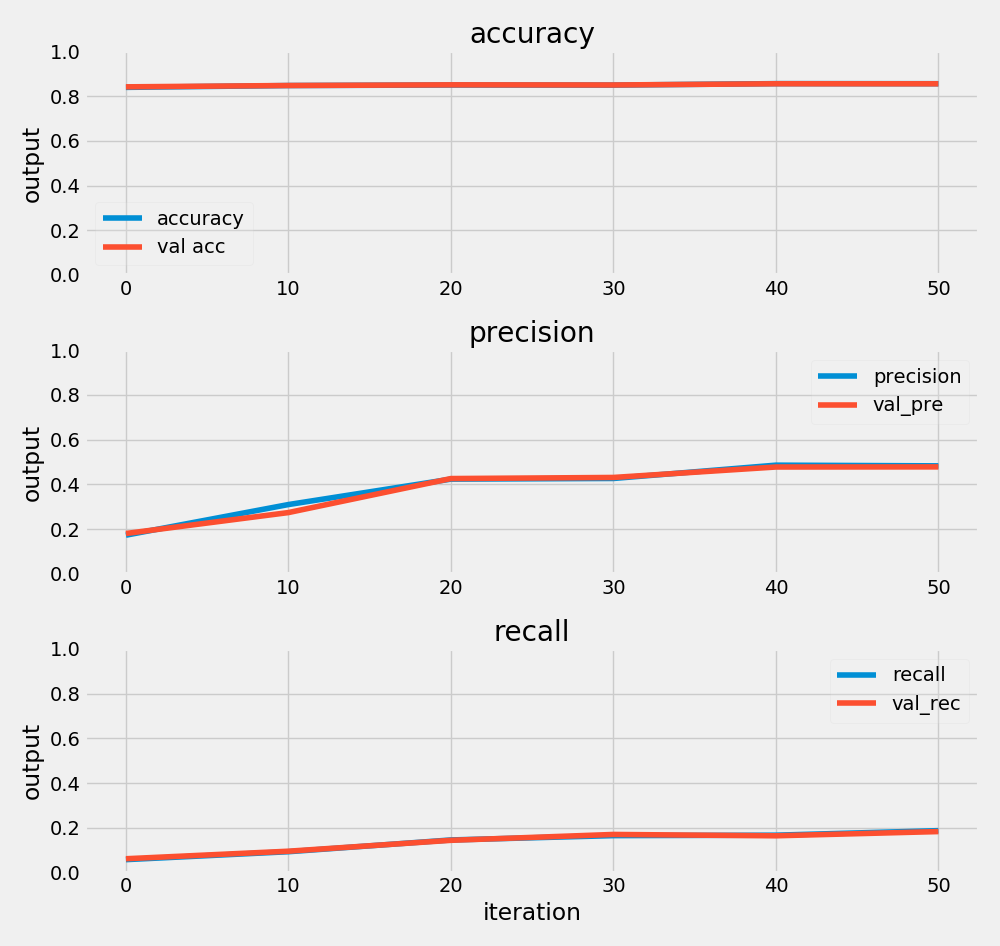
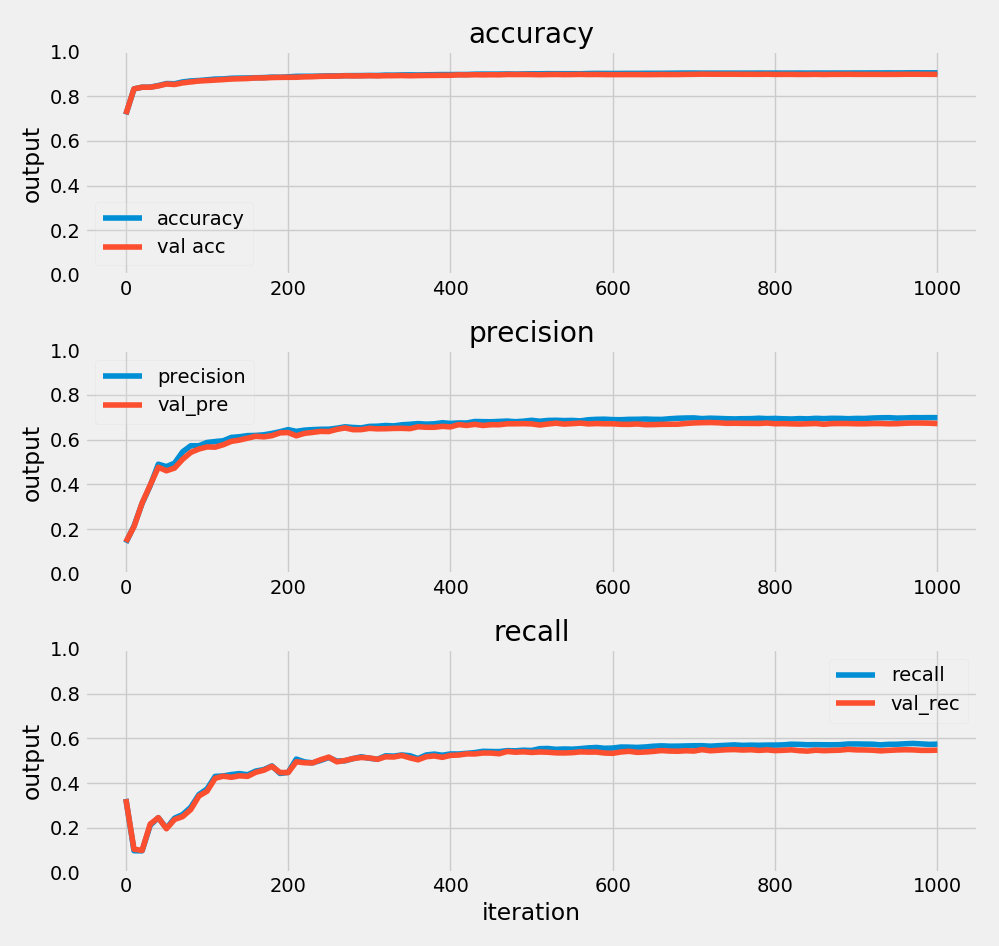
added proper cross validation in Client

diff --git a/Client.py b/Client.py
@@ -12,10 +12,7 @@ from Insider   import Insider
 if __name__ == '__main__':
 
 	# fix the seed ###
-	random.seed(14)
-
-	# plotly username ###
-	plotly.tools.set_credentials_file(username='f14', api_key='OCD3NkwqAIy0QgiHdAW7')
+	random.seed(42)
 
 	# images directory ###
 	if not os.path.isdir('./images'):
@@ -31,9 +28,9 @@ if __name__ == '__main__':
 
 	# parameter settings ###
 	dataset_path = "./data/forest_dataset"  # dataset path
-	T            = 10001	                # no. Adaboost step
+	T            = 1001	         	        # no. Adaboost step
 	step         = 0.01 					# step for percentiles generation
-	npartitions  = 3						# np. partiotion for cross validation
+	prt_list     = [4]						# list of possible partition in cross validation
 
 
 	# data preprocessing ###
@@ -47,29 +44,60 @@ if __name__ == '__main__':
 	
 	random.shuffle(data)
 
+	test_data     = data[:len(data)//3 ]
+	training_data = data[ len(data)//3:]
+	best_algo     = None 
+	best_val_acc  = 0
+
 	# training ###
-	partitions = Utils.getPartitions(data, npartitions)
+	for npartitions in prt_list:
+		partitions = Utils.getPartitions(training_data, npartitions)
 
-	for choicer, name in [(Choicers.best_choicer                (tests, 0.01), "best_with_threshold_"     ),
-				   		  (Choicers.random_choicer              (tests, 0   ), "random_choice_"           ), 
-				   		  (Choicers.random_choicer              (tests, 0.01), "random_with_threshold_"   ),
-				   		  (Choicers.random_selector_best_choicer(tests, 0.5 ), "random_selctor_best_test_")]:
+		for choicer, name in [(Choicers.best_choicer                (tests, 0.01), "best_with_threshold_"     ),
+					   		  #(Choicers.random_choicer              (tests, 0   ), "random_choice_"           ), 
+					   		  #(Choicers.random_choicer              (tests, 0.01), "random_with_threshold_"   ),
+					   		  (Choicers.random_selector_best_choicer(tests, 0.5 ), "random_selctor_best_test_")]:
 
-		print("training for {}".format(name))
-
-		for clss in classes:
-			print("training for class {}.".format(clss))
-
-			insider = Insider(clss,npartitions,name,10,T)
-
-			for i in range(npartitions):
-				print("testing for partition {}.".format(i))
-				training_set         = Utils.onevsall(Utils.flat(partitions[:i]+partitions[i+1:]), clss)
-				test_set             = Utils.onevsall(partitions[i], clss)
-				insider.training_set = training_set
-				insider.test_set     = test_set
-				weights, predictors  = AdaBoost.train(T, training_set, mesurer = insider, choicer = choicer)
-
-			insider.save()
+			print("training for {}".format(name))
 
 
+			avg_best_on_classes = None
+			for j, clss in enumerate(classes):
+				print("training for class {}.".format(clss))
+
+				insider = Insider(clss,npartitions,name,10,T)
+
+				for i in range(npartitions):
+					print("testing for partition {}.".format(i))
+					training_set         = Utils.onevsall(Utils.flat(partitions[:i]+partitions[i+1:]), clss)
+					test_set             = Utils.onevsall(partitions[i]                              , clss)
+					insider.training_set = training_set
+					insider.test_set     = test_set
+					weights, predictors  = AdaBoost.train(T, training_set, mesurer = insider, choicer = choicer)
+
+				insider.save()
+				insider.close()
+
+				if avg_best_on_classes == None: avg_best_on_classes = insider.best_val_acc()
+				else: avg_best_on_classes += (avg_best_on_classes - insider.best_val_acc())/(j+1)
+
+			if best_val_acc < avg_best_on_classes:
+				best_val_acc = avg_best_on_classes
+				best_algo    = choicer
+
+
+	# best training ###
+	test_acc = None
+	for j,clss in enumerate(classes):
+		insider              = Insider(clss,1,"best_predictor_",10,T)
+		training_set         = Utils.onevsall(training_data, clss)
+		test_set             = Utils.onevsall(test_data    , clss)
+		insider.training_set = training_set
+		insider.test_set     = test_set	
+		weights, predictors  = AdaBoost.train(T, training_set, mesurer = insider, choicer = best_algo)
+		if test_acc == None: test_acc  = insider.best_val_acc()
+		else: 				 test_acc += (test_acc - insider.best_val_acc())/(j+1)
+		insider.save()
+
+
+	print("best test acc: {}".format(test_acc))

diff --git a/Insider.py b/Insider.py
@@ -4,13 +4,14 @@ plt.style.use('fivethirtyeight')
 
 
 class Insider:
-	def __init__(self, clss, npartitions, name, step, max_iteration):
+	def __init__(self, clss, npartitions, name, step, max_iteration, open_plot = True):
 		self.data 			  = dict()
 		self.clss 			  = clss
 		self.step 			  = step
 		self.max_iteration 	  = max_iteration
 		self.npartitions 	  = npartitions
 		self.name 			  = name
+		self.open_plot   	  = open_plot
 		plt.ion()
 		self.figure, self.axs = plt.subplots(3,1,figsize=(10, 10),tight_layout=True)
 
@@ -46,6 +47,12 @@ class Insider:
 										    val_prc, trn_rec, val_rec, iteration))
 
 			self.plot()
+
+	def best_val_acc(self):
+		best_val_acc = 0
+		for k,v in self.data.items():
+			best_val_acc = max(best_val_acc, v[2])
+		return best_val_acc
 
 
 	def plot(self):
@@ -86,3 +93,6 @@ class Insider:
 	def save(self):
 		title = self.name+'class_{}_cross_val_{}'.format(self.clss, self.npartitions)
 		self.figure.savefig("./images/" + title)
+
+	def close(self):
+		plt.close()

diff --git a/AdaBoost.py b/AdaBoost.py
@@ -59,6 +59,10 @@ class AdaBoost:
 			if predictors[-1] == None: return weights, predictors
 
 			error = AdaBoost.get_error(predictors[-1], prbs, training_set)
+			
+			# limit cases ###
+			if error == 1: error -= 0.000001
+			if error == 0: error += 0.000001 
 
 			# get the new weight ###
 			weights.append(0.5 * math.log((1-error) / error))
